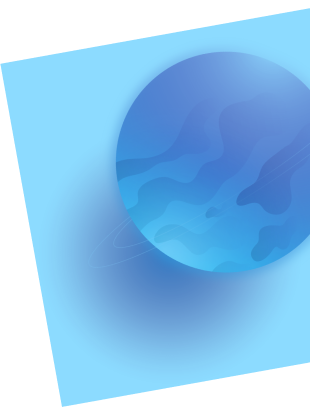
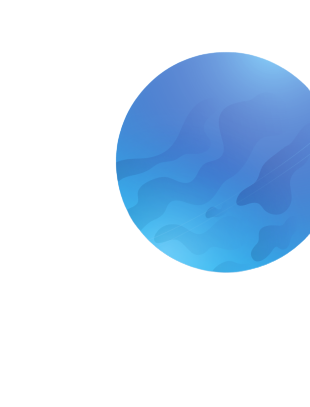
changes

diff --git a/src/components/Faq.jsx b/src/components/Faq.jsx
@@ -1,7 +1,7 @@
 import React from "react";
 import Arrow from "../assets/images/png/Arrow.png";
 import Footer from "./Footer";
-import blur1 from "../assets/images/png/blur1.png";
+
 // import FagBgImg from "../assets/images/png/Faq_bg_img.png";
 import { useState } from "react";
 const SliderDataValue = [
@@ -47,7 +47,7 @@ const Faq = () => {
   return (
     <>
       <section className="bg_img_faq pt-10 relative">
-        <img className=" absolute right-0 top-[-15%]  z-50" src={blur1} alt="blur" />
+       
         <div className=" container max-w-[1176px] mx-auto px-3">
           <p className=" text-xxl font-Raleway font-semibold text-white pb-3 sm:pb-14 text-center sm:text-start">
             Frequently Asked Questions

diff --git a/src/components/LaunchYourProject.jsx b/src/components/LaunchYourProject.jsx
@@ -5,11 +5,13 @@ import LeftSideArrow from "../assets/images/png/leftsiderArrow.png";
 import rightArrow from "../assets/images/png/rightsideArrow.png";
 import Clouds from "../assets/images/png/clouds.png";
 import bg_Launch from "../assets/images/png/bg_launch.png";
+import blueglobe from "../assets/images/png/blueglobe.png";
 
 const LaunchYourProject = () => {
   return (
     <>
       <section className="py-10 lg:mb-20 relative">
+        <img className=" absolute right-0 top-0 hidden lg:block" src={blueglobe} alt="bnlueglobe" />
   
         
 

diff --git a/src/components/ClaimAirdrop.jsx b/src/components/ClaimAirdrop.jsx
@@ -104,7 +104,7 @@ const ClaimAirdrop = () => {
   };
   return (
     <>
-      <section className=" relative">
+      <section className=" relative bgclaimairdrop">
         <img
           onClick={() => slider.current.slickPrev()}
           className=" absolute top-[20%] left-5"

diff --git a/src/App.css b/src/App.css
@@ -27,6 +27,10 @@ body {
   background-image: url(../src/assets/images/png/bgblastpadbonus.png);
   background-size: cover;
 }
+.bgclaimairdrop{
+  background-image: url(../src/assets/images/png/bgclaimairdrop.png);
+  background-size: cover;
+}
 
 .tokenimg{
   height: 70px;
